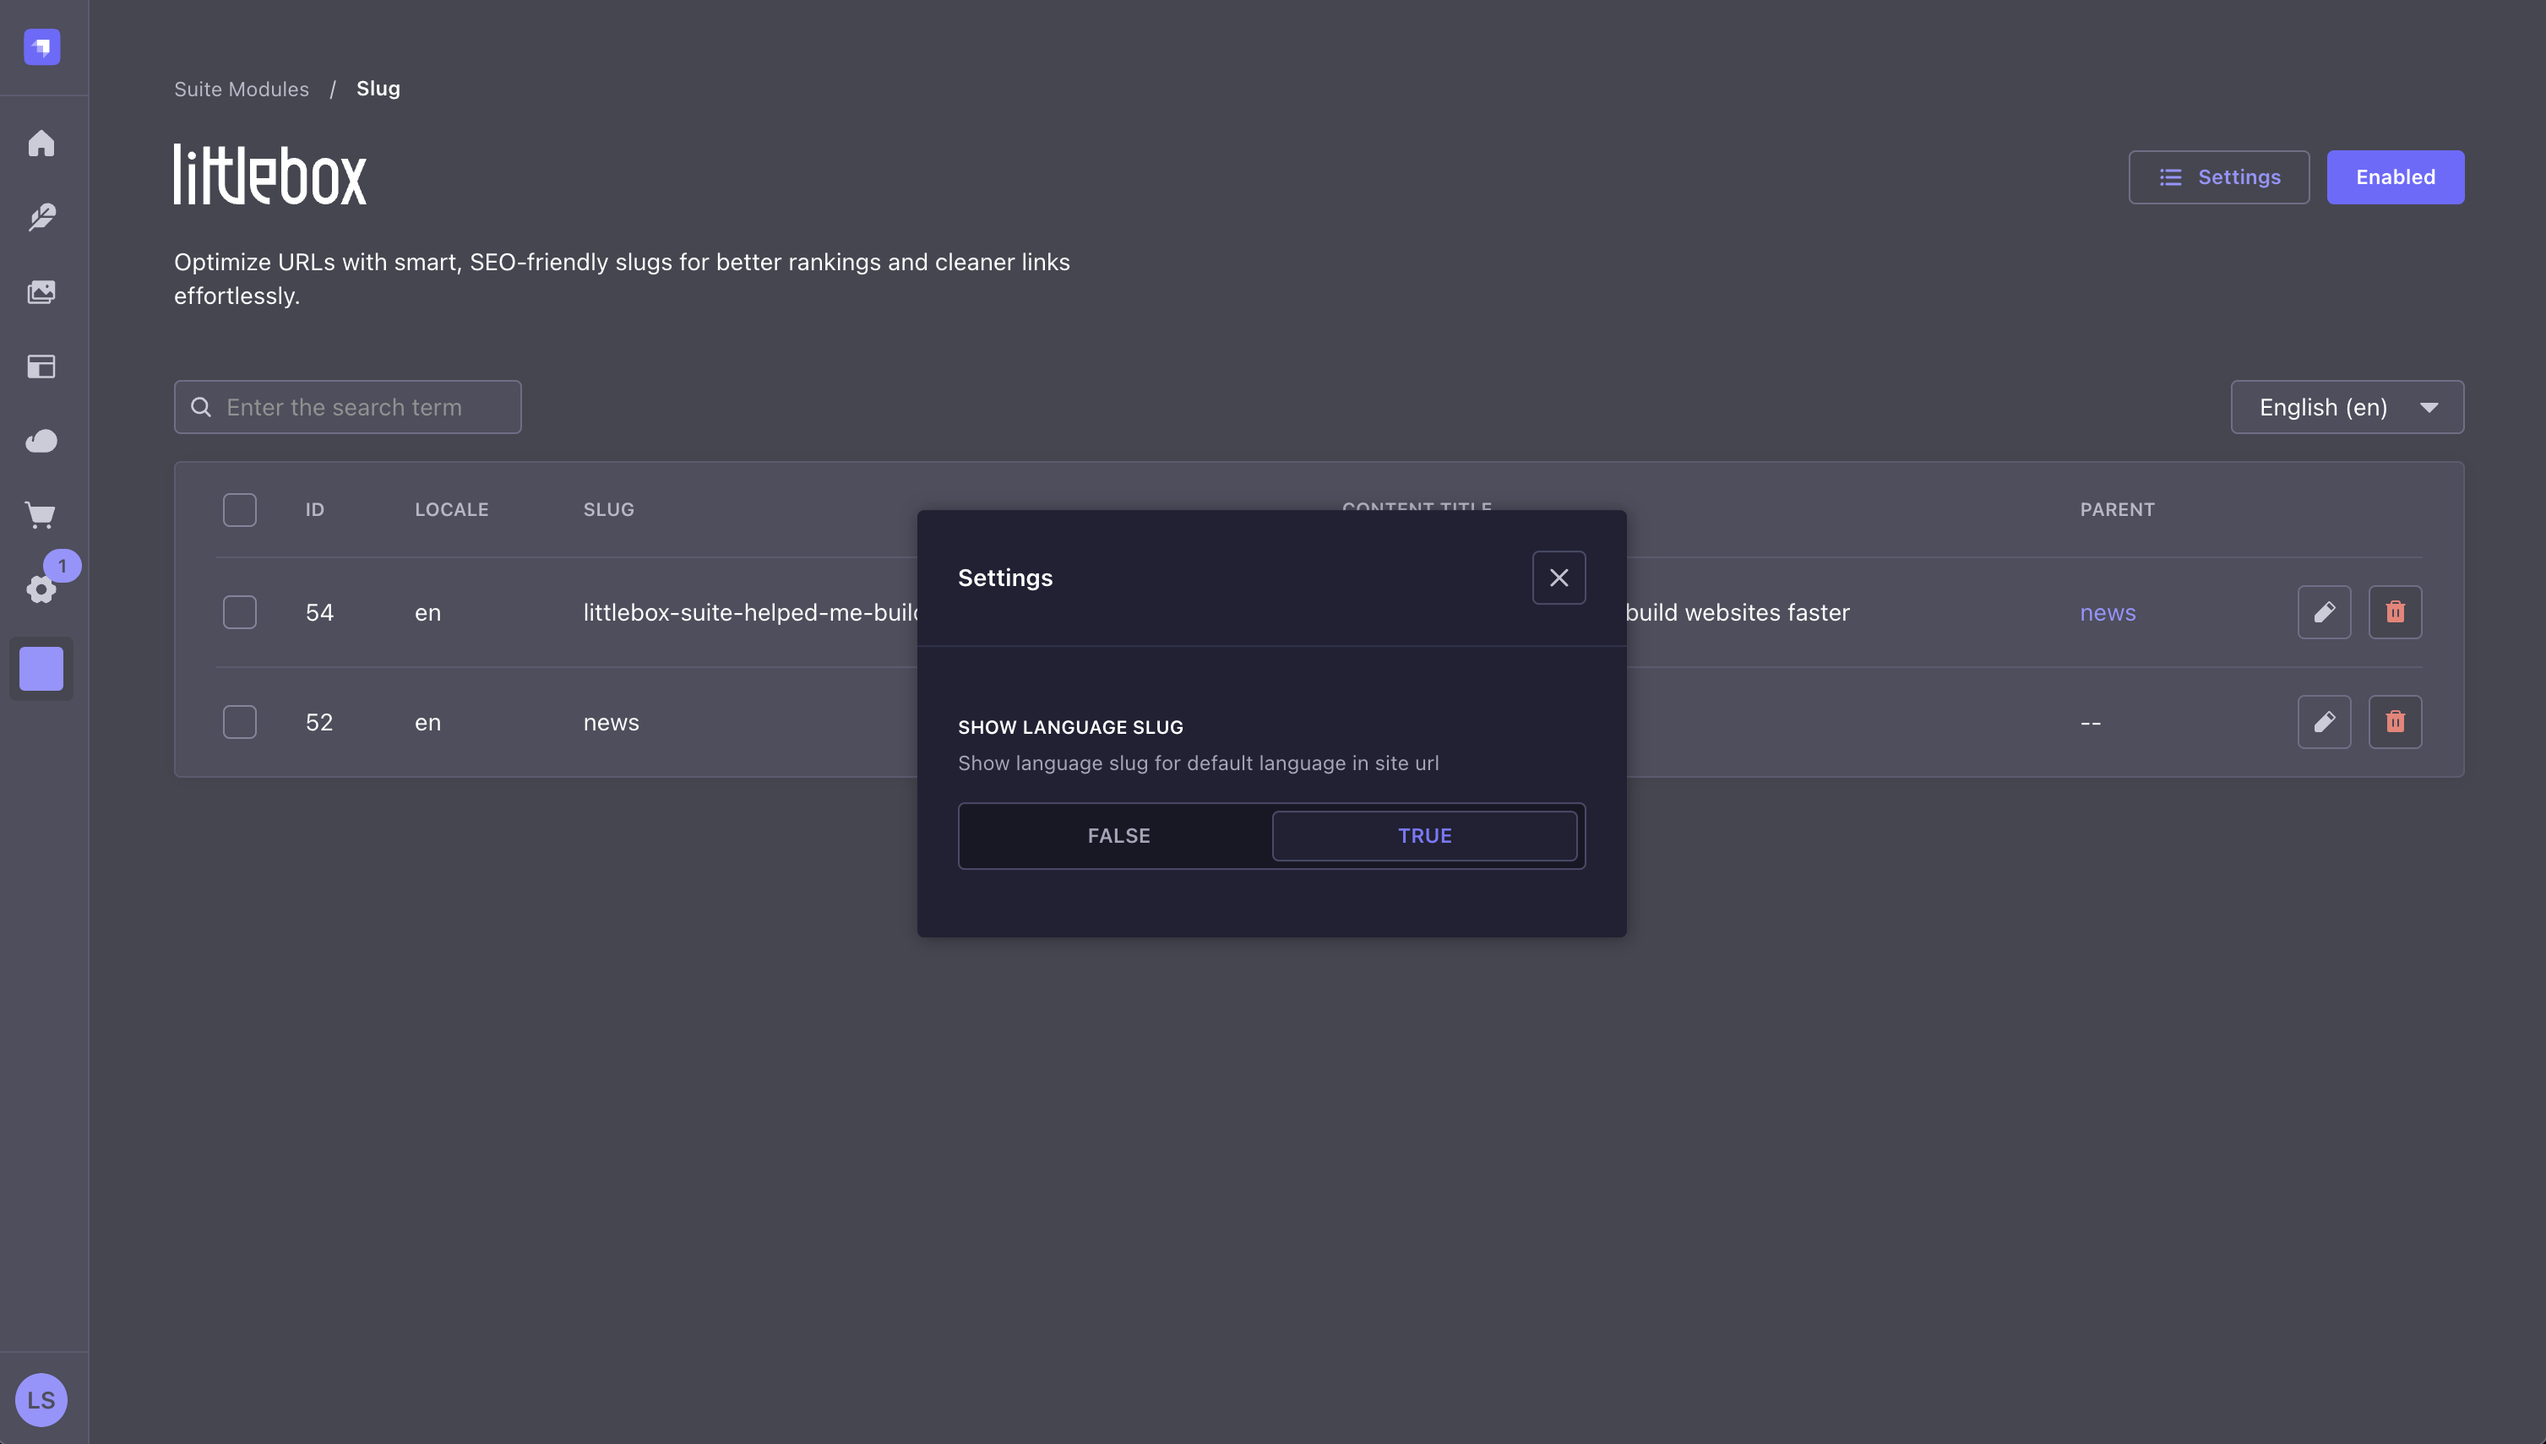
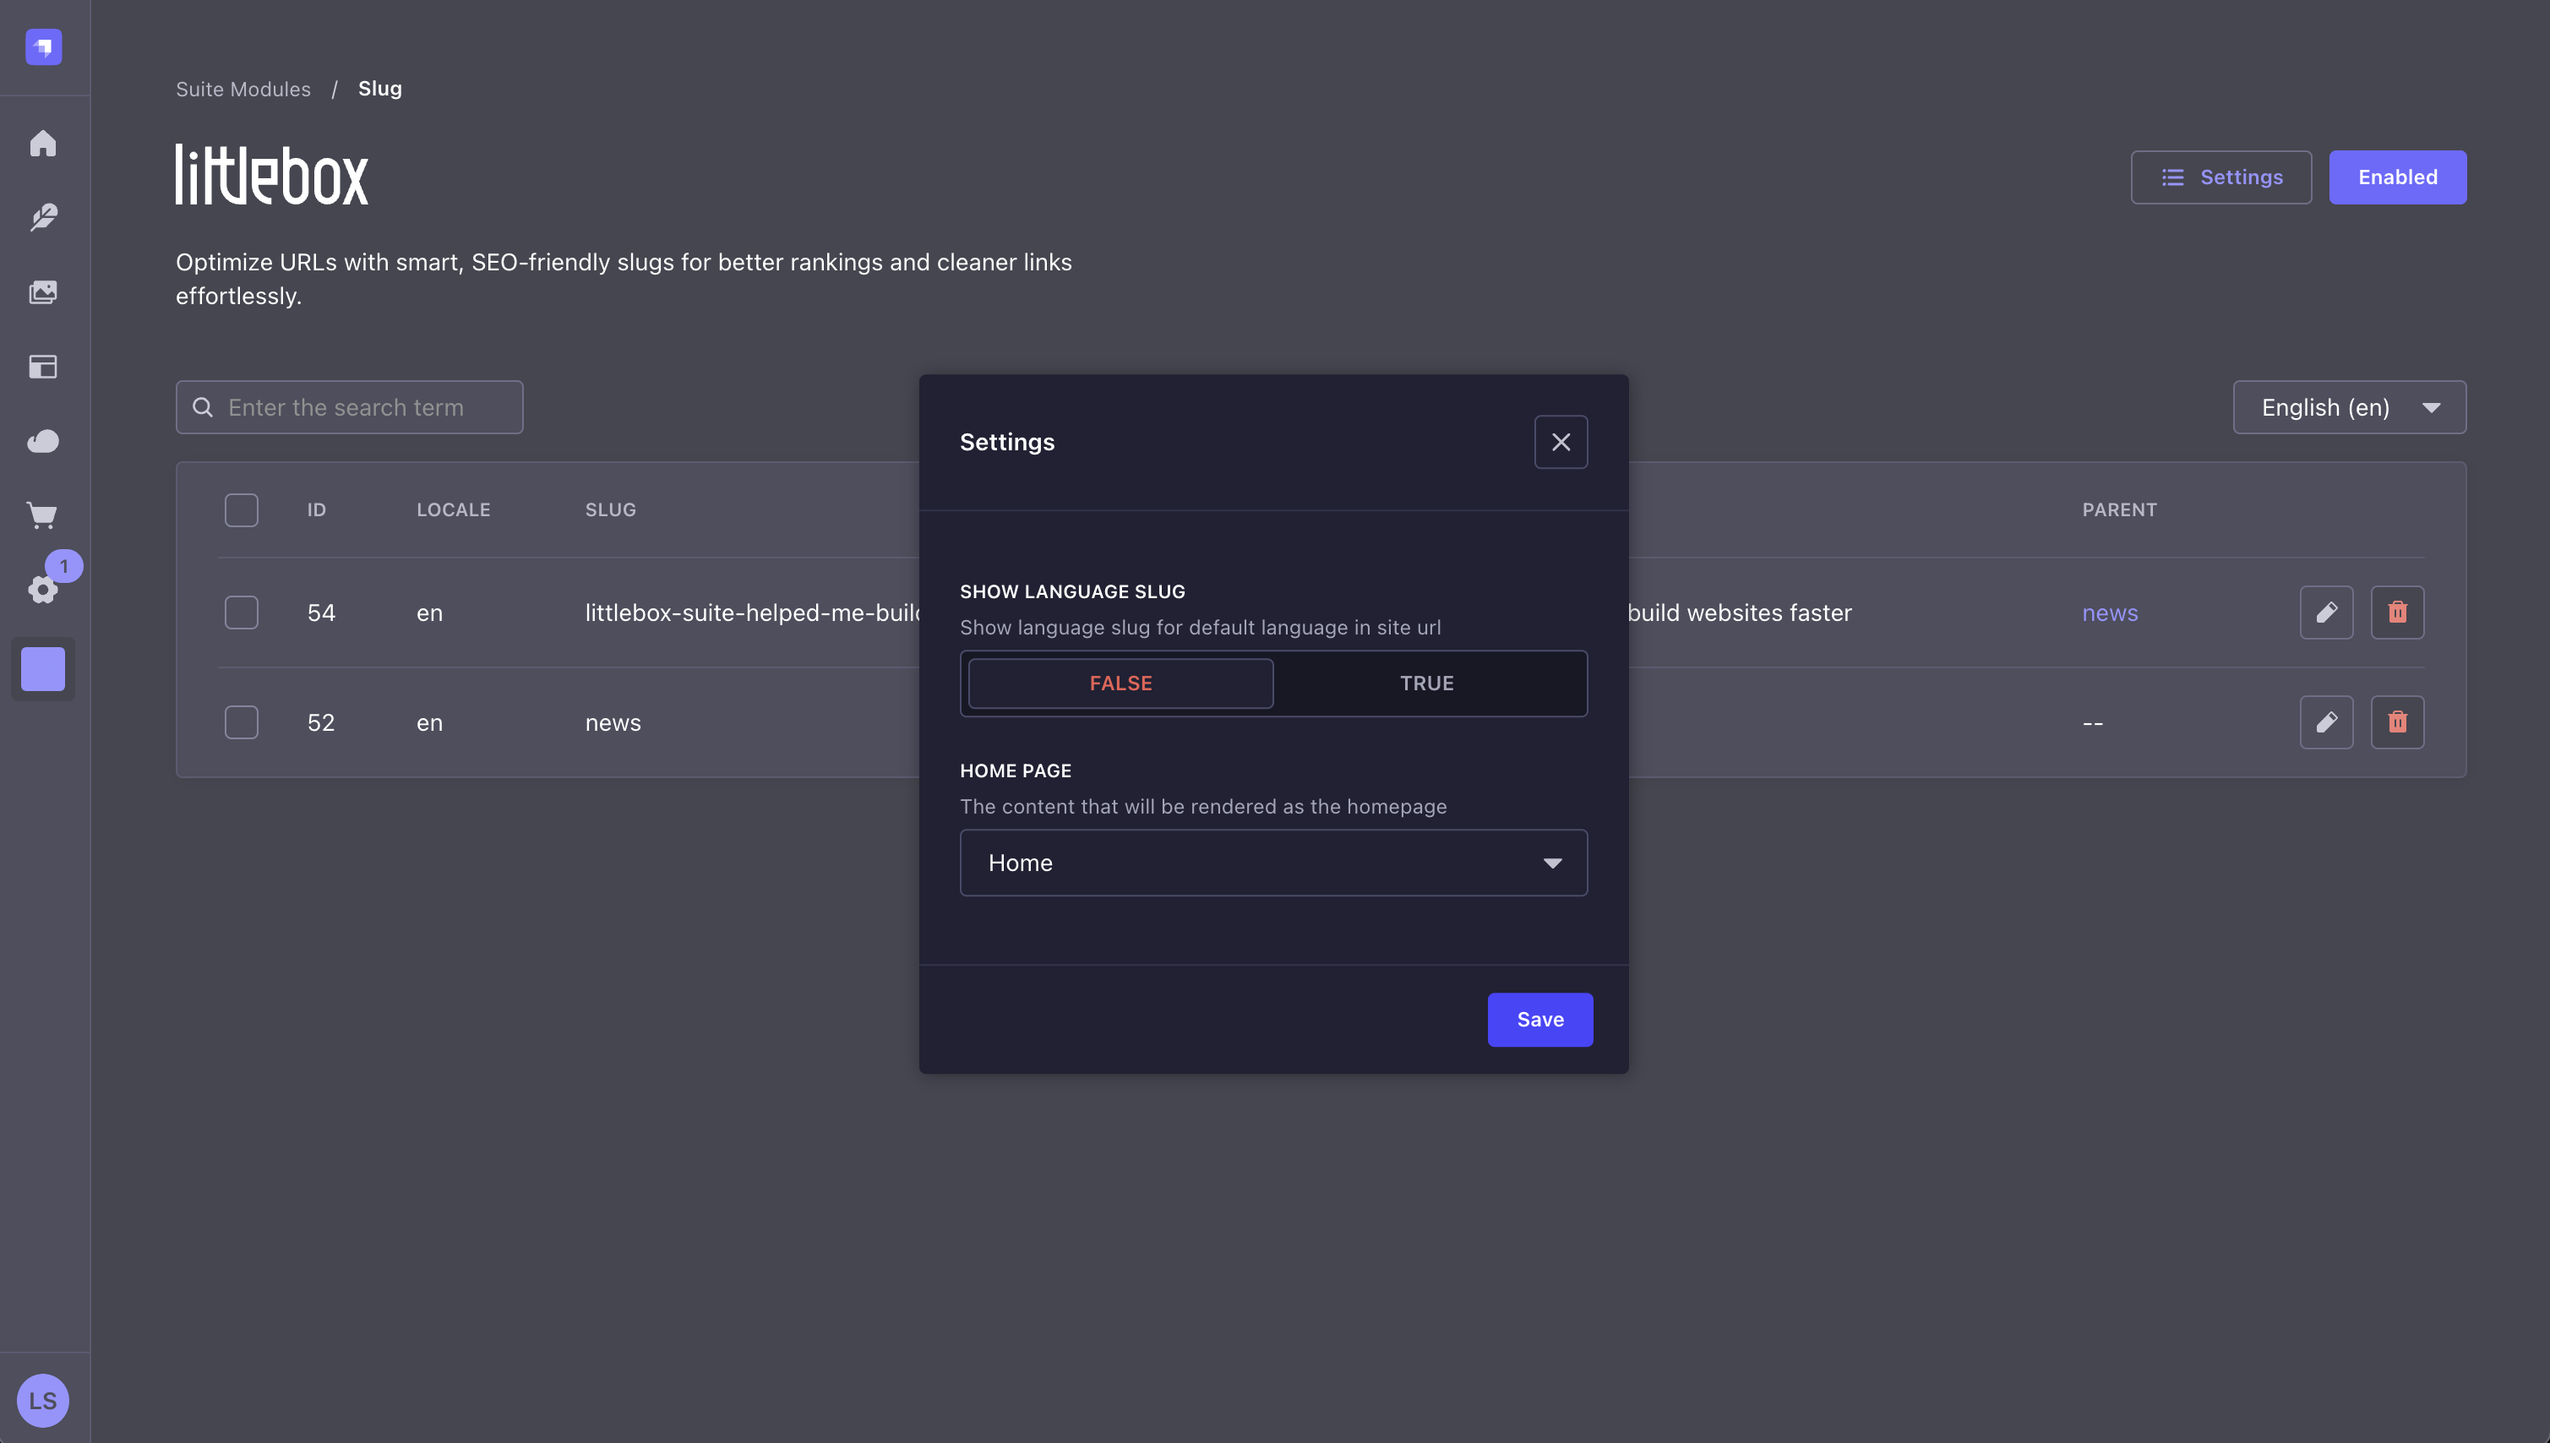
docs(readme): updates plugin instructions

diff --git a/README.md b/README.md
@@ -200,6 +200,11 @@ GET /api/littlebox-strapi-suite/modules/pages?slug=<SLUG>
 ```
 **Note**: The default language won't show up in the URL slug if the `SHOW LANGUAGE SLUG` setting is turned off in the slug module settings (see screenshot above).
 
+Using the slug module settings (as shown in the screenshot above), you can choose which content will be set as the homepage. Then, just call the API to get the data:
+```
+GET /api/littlebox-strapi-suite/modules/pages/home?properties=attributes
+```
+
 &nbsp;
 &nbsp;
 &nbsp;
